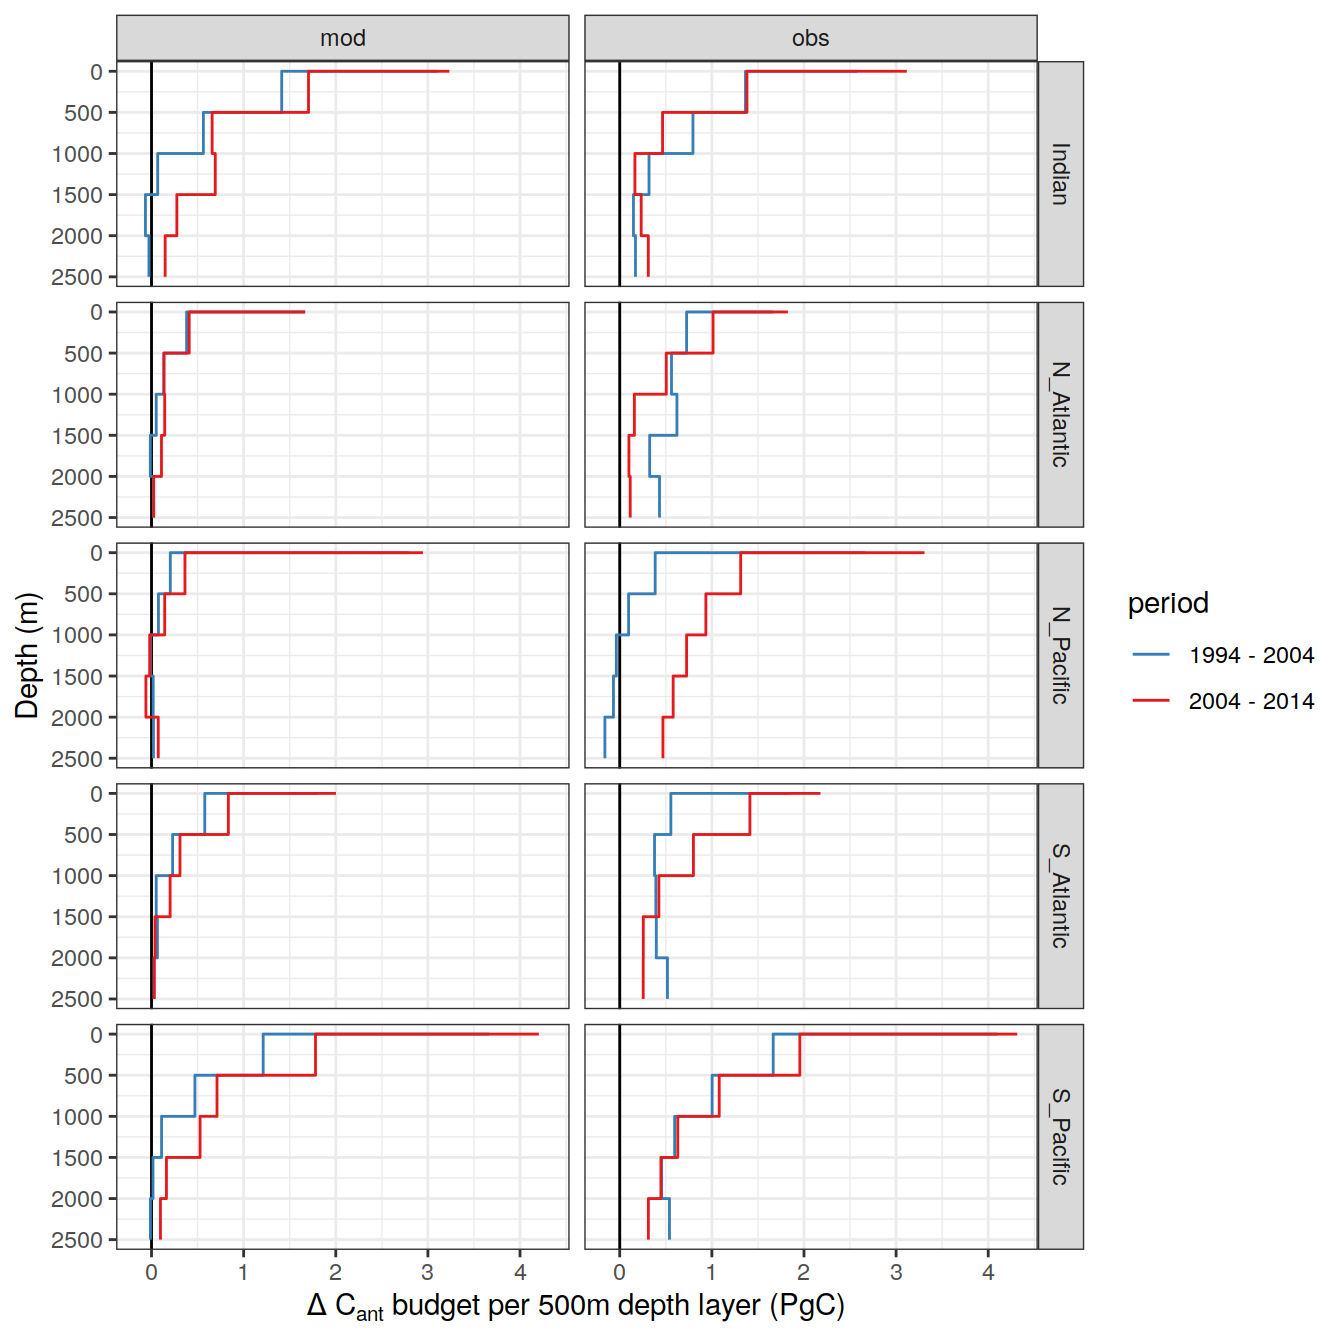
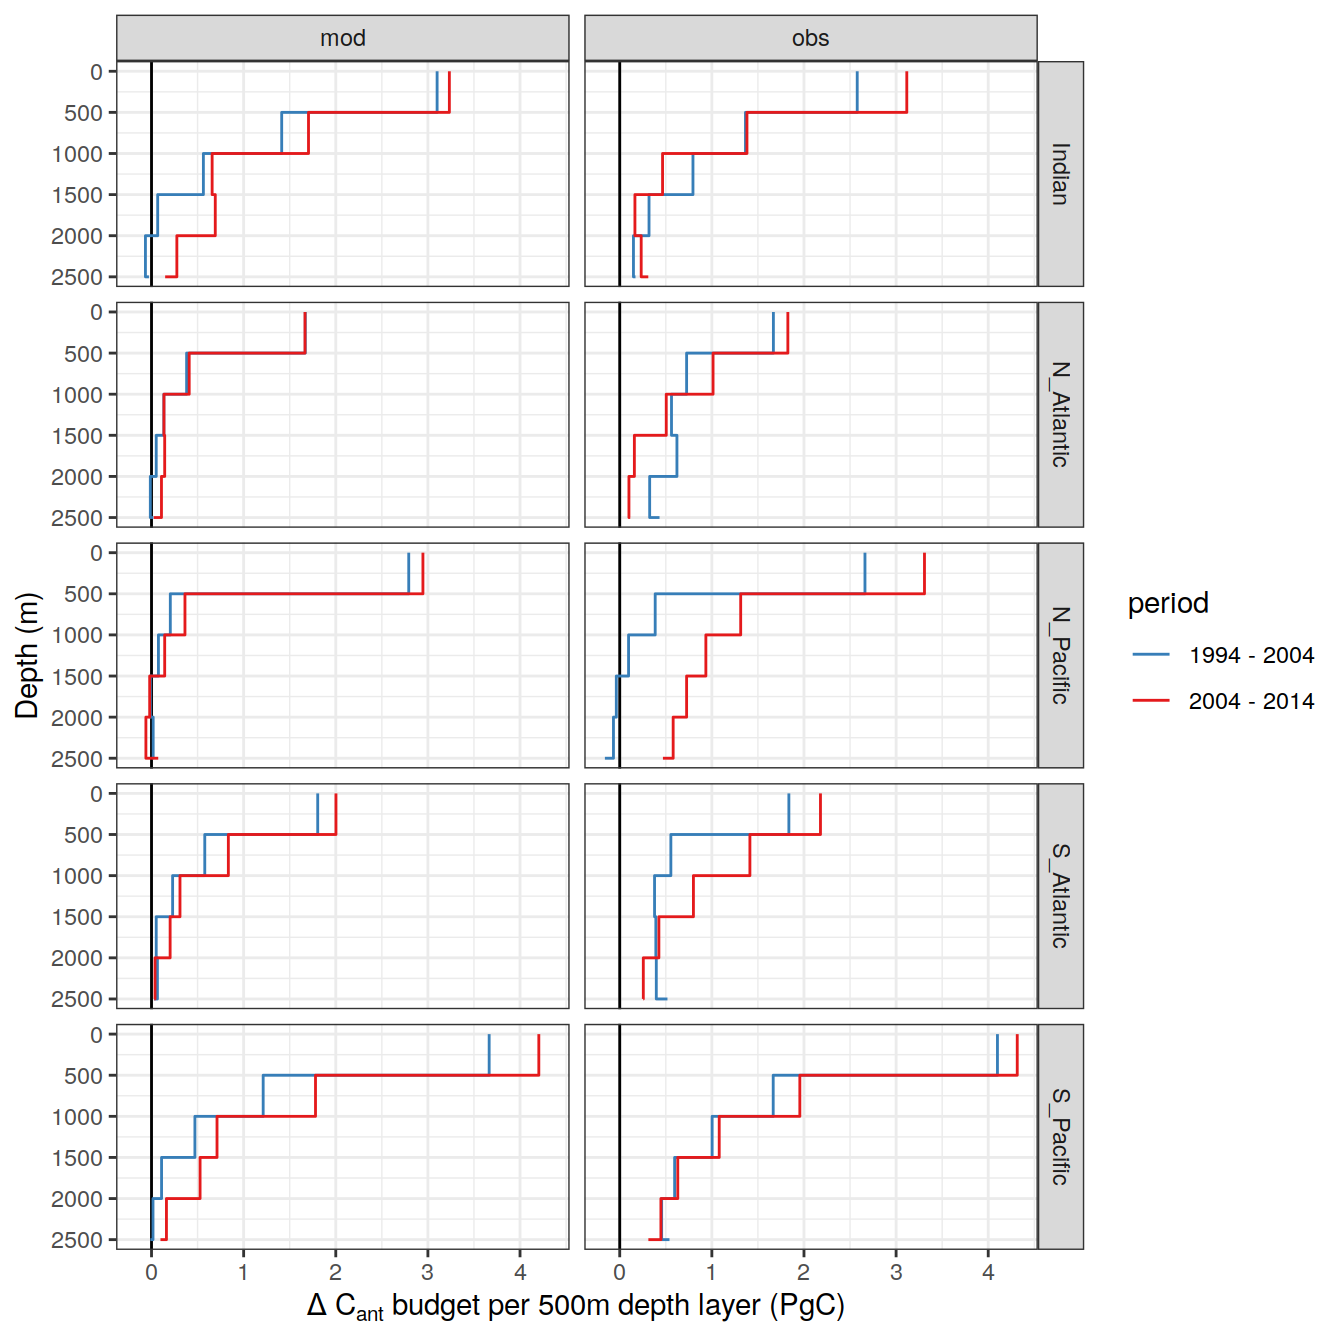
Build site.

diff --git a/docs/results_publication.html b/docs/results_publication.html
@@ -673,16 +673,16 @@ This reproducible <a href="https://rmarkdown.rstudio.com">R Markdown</a> analysi
 <div class="panel panel-default">
 <div class="panel-heading">
 <p class="panel-title">
-<a data-toggle="collapse" data-parent="#workflowr-checks" href="#strongRepositoryversionstrongahrefhttpsgithubcomjensdanielmuelleremlrobsanalysistree714c5cc9b51fc9513493bb8dcaf55785adda5bc3targetblank714c5cca"> <span class="glyphicon glyphicon-ok text-success" aria-hidden="true"></span> <strong>Repository version:</strong> <a href="https://github.com/jens-daniel-mueller/emlr_obs_analysis/tree/714c5cc9b51fc9513493bb8dcaf55785adda5bc3" target="_blank">714c5cc</a> </a>
+<a data-toggle="collapse" data-parent="#workflowr-checks" href="#strongRepositoryversionstrongahrefhttpsgithubcomjensdanielmuelleremlrobsanalysistree278523cb2294368982b27ad3f58e8e9eb65cab54targetblank278523ca"> <span class="glyphicon glyphicon-ok text-success" aria-hidden="true"></span> <strong>Repository version:</strong> <a href="https://github.com/jens-daniel-mueller/emlr_obs_analysis/tree/278523cb2294368982b27ad3f58e8e9eb65cab54" target="_blank">278523c</a> </a>
 </p>
 </div>
[2 lines of base64/hex data omitted]
 <div class="panel-body">
 <p>
 Great! You are using Git for version control. Tracking code development and connecting the code version to the results is critical for reproducibility.
 </p>
 <p>
-The results in this page were generated with repository version <a href="https://github.com/jens-daniel-mueller/emlr_obs_analysis/tree/714c5cc9b51fc9513493bb8dcaf55785adda5bc3" target="_blank">714c5cc</a>. See the <em>Past versions</em> tab to see a history of the changes made to the R Markdown and HTML files.
+The results in this page were generated with repository version <a href="https://github.com/jens-daniel-mueller/emlr_obs_analysis/tree/278523cb2294368982b27ad3f58e8e9eb65cab54" target="_blank">278523c</a>. See the <em>Past versions</em> tab to see a history of the changes made to the R Markdown and HTML files.
 </p>
 <p>
 Note that you need to be careful to ensure that all relevant files for the analysis have been committed to Git prior to generating the results (you can use <code>wflow_publish</code> or <code>wflow_git_commit</code>). workflowr only checks the R Markdown file, but you know if there are other scripts or data files that it depends on. Below is the status of the Git repository when the results were generated:
@@ -732,6 +732,40 @@ Message
 </tr>
 </thead>
 <tbody>
+<tr>
+<td>
+Rmd
+</td>
+<td>
+<a href="https://github.com/jens-daniel-mueller/emlr_obs_analysis/blob/278523cb2294368982b27ad3f58e8e9eb65cab54/analysis/results_publication.Rmd" target="_blank">278523c</a>
+</td>
+<td>
+jens-daniel-mueller
+</td>
+<td>
+2022-01-31
+</td>
+<td>
+step plot for layer budgets
+</td>
+</tr>
+<tr>
+<td>
+html
+</td>
+<td>
+<a href="https://rawcdn.githack.com/jens-daniel-mueller/emlr_obs_analysis/b62308dba0722295c345e2f2e2c8b632d47f9803/docs/results_publication.html" target="_blank">b62308d</a>
+</td>
+<td>
+jens-daniel-mueller
+</td>
+<td>
+2022-01-31
+</td>
+<td>
+Build site.
+</td>
+</tr>
 <tr>
 <td>
 Rmd
@@ -4759,6 +4793,17 @@ Date
 <tbody>
 <tr>
 <td>
+<a href="https://github.com/jens-daniel-mueller/emlr_obs_analysis/blob/b62308dba0722295c345e2f2e2c8b632d47f9803/docs/figure/results_publication.Rmd/concentration_profiles-1.png" target="_blank">b62308d</a>
+</td>
+<td>
+jens-daniel-mueller
+</td>
+<td>
+2022-01-31
+</td>
+</tr>
+<tr>
+<td>
 <a href="https://github.com/jens-daniel-mueller/emlr_obs_analysis/blob/5f2aed01ee0afd3576f9cbf95fdd5cfd62b36cba/docs/figure/results_publication.Rmd/concentration_profiles-1.png" target="_blank">5f2aed0</a>
 </td>
 <td>
@@ -4843,6 +4888,17 @@ Date
 <tbody>
 <tr>
 <td>
+<a href="https://github.com/jens-daniel-mueller/emlr_obs_analysis/blob/b62308dba0722295c345e2f2e2c8b632d47f9803/docs/figure/results_publication.Rmd/concentration_profiles-2.png" target="_blank">b62308d</a>
+</td>
+<td>
+jens-daniel-mueller
+</td>
+<td>
+2022-01-31
+</td>
+</tr>
+<tr>
+<td>
 <a href="https://github.com/jens-daniel-mueller/emlr_obs_analysis/blob/c6fe4951ac9c457e4532820c04f1adb077a94966/docs/figure/results_publication.Rmd/concentration_profiles-2.png" target="_blank">c6fe495</a>
 </td>
 <td>
@@ -4892,6 +4948,17 @@ Date
 </tr>
 </thead>
 <tbody>
+<tr>
+<td>
+<a href="https://github.com/jens-daniel-mueller/emlr_obs_analysis/blob/b62308dba0722295c345e2f2e2c8b632d47f9803/docs/figure/results_publication.Rmd/concentration_profiles-3.png" target="_blank">b62308d</a>
+</td>
+<td>
+jens-daniel-mueller
+</td>
+<td>
+2022-01-31
+</td>
+</tr>
 <tr>
 <td>
 <a href="https://github.com/jens-daniel-mueller/emlr_obs_analysis/blob/5f2aed01ee0afd3576f9cbf95fdd5cfd62b36cba/docs/figure/results_publication.Rmd/concentration_profiles-3.png" target="_blank">5f2aed0</a>
@@ -5011,6 +5078,17 @@ Date
 <tbody>
 <tr>
 <td>
+<a href="https://github.com/jens-daniel-mueller/emlr_obs_analysis/blob/b62308dba0722295c345e2f2e2c8b632d47f9803/docs/figure/results_publication.Rmd/concentration_profiles_MLR_basins-1.png" target="_blank">b62308d</a>
+</td>
+<td>
+jens-daniel-mueller
+</td>
+<td>
+2022-01-31
+</td>
+</tr>
+<tr>
+<td>
 <a href="https://github.com/jens-daniel-mueller/emlr_obs_analysis/blob/5f2aed01ee0afd3576f9cbf95fdd5cfd62b36cba/docs/figure/results_publication.Rmd/concentration_profiles_MLR_basins-1.png" target="_blank">5f2aed0</a>
 </td>
 <td>
@@ -5082,6 +5160,17 @@ Date
 </tr>
 </thead>
 <tbody>
+<tr>
+<td>
+<a href="https://github.com/jens-daniel-mueller/emlr_obs_analysis/blob/b62308dba0722295c345e2f2e2c8b632d47f9803/docs/figure/results_publication.Rmd/concentration_profiles_MLR_basins-2.png" target="_blank">b62308d</a>
+</td>
+<td>
+jens-daniel-mueller
+</td>
+<td>
+2022-01-31
+</td>
+</tr>
 <tr>
 <td>
 <a href="https://github.com/jens-daniel-mueller/emlr_obs_analysis/blob/5f2aed01ee0afd3576f9cbf95fdd5cfd62b36cba/docs/figure/results_publication.Rmd/concentration_profiles_MLR_basins-2.png" target="_blank">5f2aed0</a>
@@ -5433,6 +5522,17 @@ Date
 <tbody>
 <tr>
 <td>
+<a href="https://github.com/jens-daniel-mueller/emlr_obs_analysis/blob/b62308dba0722295c345e2f2e2c8b632d47f9803/docs/figure/results_publication.Rmd/concentration_profiles_MLR_basins_offset-1.png" target="_blank">b62308d</a>
+</td>
+<td>
+jens-daniel-mueller
+</td>
+<td>
+2022-01-31
+</td>
+</tr>
+<tr>
+<td>
 <a href="https://github.com/jens-daniel-mueller/emlr_obs_analysis/blob/5f2aed01ee0afd3576f9cbf95fdd5cfd62b36cba/docs/figure/results_publication.Rmd/concentration_profiles_MLR_basins_offset-1.png" target="_blank">5f2aed0</a>
 </td>
 <td>
@@ -5493,6 +5593,17 @@ Date
 </tr>
 </thead>
 <tbody>
+<tr>
+<td>
+<a href="https://github.com/jens-daniel-mueller/emlr_obs_analysis/blob/b62308dba0722295c345e2f2e2c8b632d47f9803/docs/figure/results_publication.Rmd/concentration_profiles_MLR_basins_offset-2.png" target="_blank">b62308d</a>
+</td>
+<td>
+jens-daniel-mueller
+</td>
+<td>
+2022-01-31
+</td>
+</tr>
 <tr>
 <td>
 <a href="https://github.com/jens-daniel-mueller/emlr_obs_analysis/blob/5f2aed01ee0afd3576f9cbf95fdd5cfd62b36cba/docs/figure/results_publication.Rmd/concentration_profiles_MLR_basins_offset-2.png" target="_blank">5f2aed0</a>
@@ -5902,6 +6013,17 @@ Date
 <tbody>
 <tr>
 <td>
+<a href="https://github.com/jens-daniel-mueller/emlr_obs_analysis/blob/b62308dba0722295c345e2f2e2c8b632d47f9803/docs/figure/results_publication.Rmd/depth_layer_budget_basin_AIP-1.png" target="_blank">b62308d</a>
+</td>
+<td>
+jens-daniel-mueller
+</td>
+<td>
+2022-01-31
+</td>
+</tr>
+<tr>
+<td>
 <a href="https://github.com/jens-daniel-mueller/emlr_obs_analysis/blob/5f2aed01ee0afd3576f9cbf95fdd5cfd62b36cba/docs/figure/results_publication.Rmd/depth_layer_budget_basin_AIP-1.png" target="_blank">5f2aed0</a>
 </td>
 <td>
@@ -5926,7 +6048,7 @@ jens-daniel-mueller
   rename(dcant = value) %&gt;%
   ggplot(aes(inv_depth-250, dcant, col=period)) +
   geom_hline(yintercept = 0) +
-  geom_step() +
+  geom_step(direction = &quot;vh&quot;) +
   coord_flip() +
   scale_x_reverse(breaks = seq(0, 3000, 500)) +
   scale_color_brewer(palette = &quot;Set1&quot;, direction = -1) +
@@ -5956,6 +6078,17 @@ Date
 </tr>
 </thead>
 <tbody>
+<tr>
+<td>
+<a href="https://github.com/jens-daniel-mueller/emlr_obs_analysis/blob/b62308dba0722295c345e2f2e2c8b632d47f9803/docs/figure/results_publication.Rmd/depth_layer_budget_basin_MLR-1.png" target="_blank">b62308d</a>
+</td>
+<td>
+jens-daniel-mueller
+</td>
+<td>
+2022-01-31
+</td>
+</tr>
 <tr>
 <td>
 <a href="https://github.com/jens-daniel-mueller/emlr_obs_analysis/blob/5f2aed01ee0afd3576f9cbf95fdd5cfd62b36cba/docs/figure/results_publication.Rmd/depth_layer_budget_basin_MLR-1.png" target="_blank">5f2aed0</a>
@@ -6012,6 +6145,17 @@ Date
 </tr>
 </thead>
 <tbody>
+<tr>
+<td>
+<a href="https://github.com/jens-daniel-mueller/emlr_obs_analysis/blob/b62308dba0722295c345e2f2e2c8b632d47f9803/docs/figure/results_publication.Rmd/depth_layer_budget_basin_MLR_cumulative-1.png" target="_blank">b62308d</a>
+</td>
+<td>
+jens-daniel-mueller
+</td>
+<td>
+2022-01-31
+</td>
+</tr>
 <tr>
 <td>
 <a href="https://github.com/jens-daniel-mueller/emlr_obs_analysis/blob/5f2aed01ee0afd3576f9cbf95fdd5cfd62b36cba/docs/figure/results_publication.Rmd/depth_layer_budget_basin_MLR_cumulative-1.png" target="_blank">5f2aed0</a>
